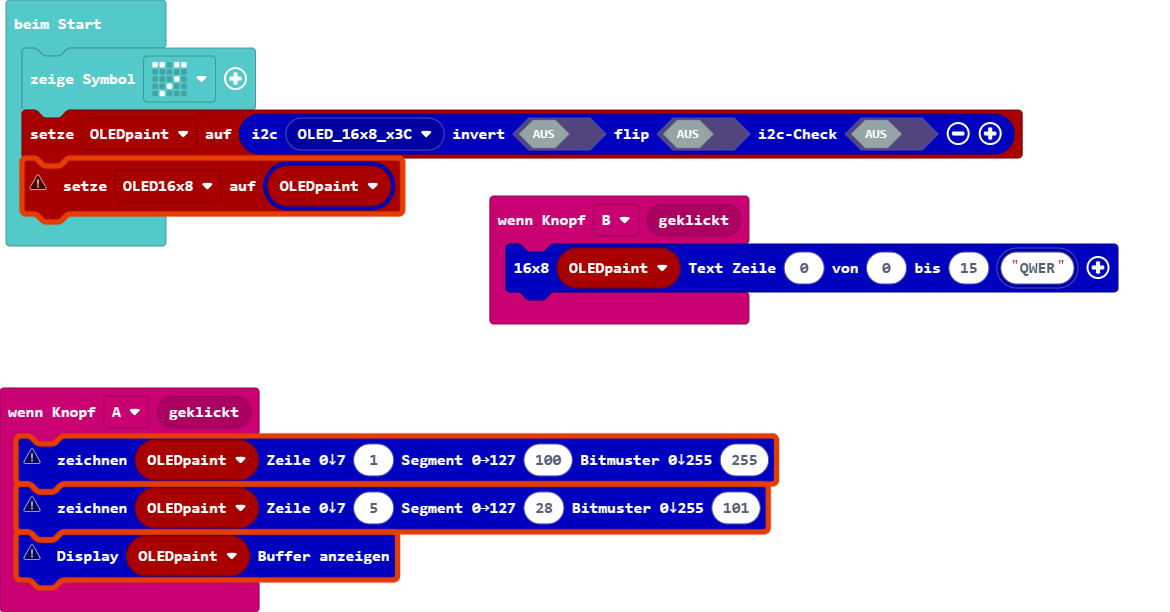
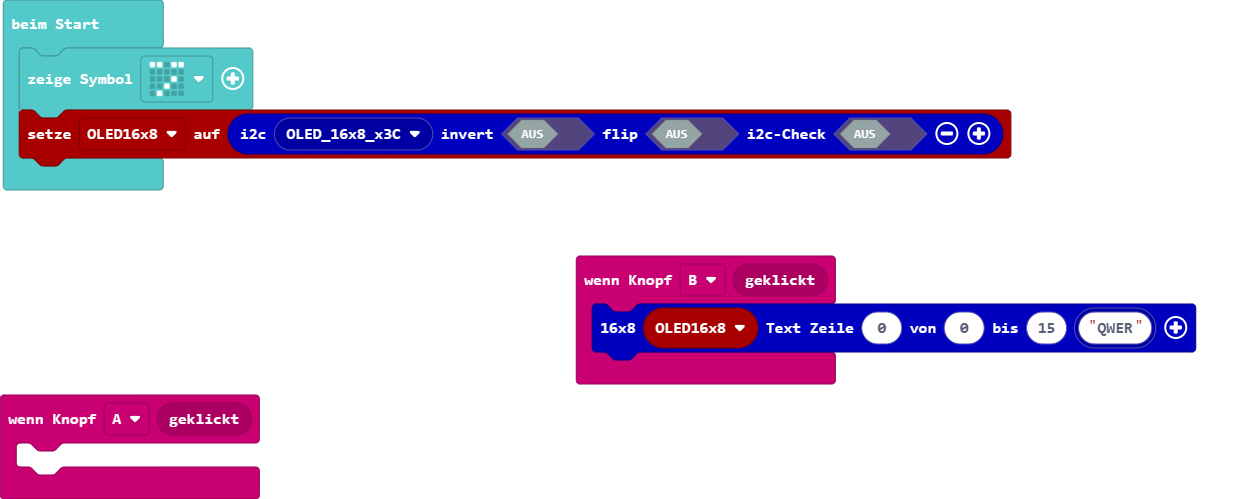
Aktualisiere pxt.json, main.blocks, main.ts, oledpaint.ts

diff --git a/main.ts b/main.ts
@@ -1,12 +1,9 @@
 input.onButtonEvent(Button.A, input.buttonEventClick(), function () {
-    OLEDpaint.writeSegment(1, 100, 255)
-    OLEDpaint.writeSegment(5, 28, 101)
-    OLEDpaint.sendBuffer()
+	
 })
 input.onButtonEvent(Button.B, input.buttonEventClick(), function () {
-    OLEDpaint.writeText16x8(0, 0, 15, oledssd1315.oledssd1315_text("QWER"))
+    OLED16x8.writeText16x8(0, 0, 15, oledssd1315.oledssd1315_text("QWER"))
 })
-let OLEDpaint: oledssd1315.oledpaint = null
+let OLED16x8: oledssd1315.oledclass = null
 basic.showIcon(IconNames.Meh)
-OLEDpaint = oledssd1315.new_oledpaint(oledssd1315.oledssd1315_eADDR(oledssd1315.eADDR.OLED_16x8_x3C), false, false, false)
-let OLED16x8 = OLEDpaint.return_oledclass()
+OLED16x8 = oledssd1315.beimStart(oledssd1315.oledssd1315_eADDR(oledssd1315.eADDR.OLED_16x8_x3C), false, false, false)

diff --git a/oledpaint.ts b/oledpaint.ts
@@ -7,7 +7,7 @@ Weiterentwicklung der Idee von M.Klein:
 
 neu programmiert von Lutz Elßner im November 2023
 */ {
-
+/* 
     //% group="OLED Display 0.96 (32 KB RAM ab Calliope 2.x)" subcategory=zeichnen
     //% block="i2c %pADDR || invert %pInvert flip %pFlip i2c-Check %ck EEPROM: Zeichen 8x8 %pEEPROM_Startadresse Zeichen 5x5 %pEEPROM_Startadresse_5x5 i2c %pEEPROM_i2cADDR"
     //% weight=4
@@ -107,5 +107,5 @@ neu programmiert von Lutz Elßner im November 2023
         }
 
     }
-
+ */
 }
